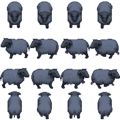
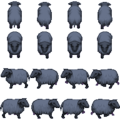
Correction animation des entitees ajout du traitement du message move

diff --git a/IANetwork/ClientXNA/ClientXNA/GameClient.cs b/IANetwork/ClientXNA/ClientXNA/GameClient.cs
@@ -243,12 +243,11 @@ namespace ClientXNA
                 {
                     if (type == "s")
                     {
-
-                        gcl.entities_.Add(id, new Sheep(new Vector2(x, y), gcl.Content.Load<Texture2D>("sheep")));
+                        gcl.entities_.Add(id, new Sheep(new Vector2(y, x), gcl.Content.Load<Texture2D>("sheep")));
                     }
                     else
                     {
-                        gcl.entities_.Add(id, new Wolf(new Vector2(x, y), gcl.Content.Load<Texture2D>("wolf")));
+                        gcl.entities_.Add(id, new Wolf(new Vector2(y, x), gcl.Content.Load<Texture2D>("wolf")));
                     }
                 }
             }
@@ -263,6 +262,19 @@ namespace ClientXNA
             string[] tokens = msg.Split(new char[] { ';' });
             if (tokens.Count() < 0)
                 return;
+            try
+            {
+                int id = int.Parse(tokens[0]);
+                int action = int.Parse(tokens[1]);
+                int x = int.Parse(tokens[2]);
+                int y = int.Parse(tokens[3]);
+                ((Entity)gcl.entities_[id]).Action = (Entity.EntityAction)action;
+                ((Entity)gcl.entities_[id]).NextPosition = new Vector2(y, x);
+            }
+            catch (Exception e)
+            {
+                Debug.WriteLine(e.Message);
+            }
         }
 
         private static void eat(GameClient gcl, string msg)
@@ -332,8 +344,8 @@ namespace ClientXNA
                 int y = int.Parse(tokens[1]);
                 int title = int.Parse(tokens[2]);
                 int odour = int.Parse(tokens[3]);
-                gcl.board_.Data[x][y].Odour = odour;
-                gcl.board_.Data[x][y].setHasGrass((title == 1));
+                gcl.board_.Data[y][x].Odour = odour;
+                gcl.board_.Data[y][x].setHasGrass((title == 1));
             }
             catch (Exception e)
             {

diff --git a/IANetwork/ClientXNA/ClientXNA/Sheep.cs b/IANetwork/ClientXNA/ClientXNA/Sheep.cs
@@ -48,14 +48,27 @@ namespace ClientXNA
             {
                 elapsedTime_ = 0;
                 x_frame_ = (x_frame_ < 3) ? (x_frame_ + 1) : (0);
+                if (Action == EntityAction.MOVE_UP)
+                    if (Position.Y > NextPosition.Y)
+                        position_.Y -= 0.1f;
+                if (Action == EntityAction.MOVE_DOWN)
+                    if (Position.Y < NextPosition.Y)
+                        position_.Y += 0.1f;
+                if (Action == EntityAction.MOVE_LEFT)
+                    if (Position.X > NextPosition.X)
+                        position_.X -= 0.1f;
+                if (Action == EntityAction.MOVE_RIGHT)
+                    if (Position.X < NextPosition.X)
+                        position_.X += 0.1f;
             }
             elapsedTime_ += gameTime.ElapsedGameTime.Milliseconds;
+           
         }
 
         public override void Draw(SpriteBatch graphics, Vector2 camera)
         {
-            graphics.Draw(image_, new Rectangle((((int)Position.X * 32)) + (int)camera.X
-                                                , (((int)Position.Y * 32)) + (int) camera.Y,
+            graphics.Draw(image_, new Rectangle(((int)(Position.X * 32)) + (int)camera.X
+                                                , ((int)(Position.Y * 32)) + (int) camera.Y,
                                                 width_, height_),
                           frames_[y_frame_][x_frame_], Color.White);
         }

diff --git a/IANetwork/ClientXNA/ClientXNA/Entity.cs b/IANetwork/ClientXNA/ClientXNA/Entity.cs
@@ -10,10 +10,10 @@ namespace ClientXNA
     public abstract class Entity
     {
         public enum EntityAction {
-			MOVE_DOWN,
-			MOVE_LEFT,
-			MOVE_RIGHT,
             MOVE_UP,
+            MOVE_DOWN,
+            MOVE_LEFT,
+            MOVE_RIGHT,
 			EAT,
 			REPRODUCE,
             NONE
@@ -21,12 +21,14 @@ namespace ClientXNA
 
         #region Attributes
         protected Vector2 position_;
+        protected Vector2 nexPosition_;
         protected EntityAction action_;
         #endregion
 
         public Entity(Vector2 position)
         {
             position_ = position;
+            nexPosition_ = position;
             action_ = EntityAction.NONE;
         }
 
@@ -40,6 +42,18 @@ namespace ClientXNA
             set
             {
                 position_ = value;
+            }
+        }
+
+        public Vector2 NextPosition
+        {
+            get
+            {
+                return (nexPosition_);
+            }
+            set
+            {
+                nexPosition_ = value;
             }
         }
 

diff --git a/IANetwork/Serveur/NetworkEnvironnement.cpp b/IANetwork/Serveur/NetworkEnvironnement.cpp
@@ -55,10 +55,22 @@ namespace Wrapper
 
 	void NetworkEnvironnement::onSpawnWolf(Logique::Entity const & entity)
 	{
+		Networking::Server::Package_ptr package = Networking::Server::Package_ptr(new Networking::Package());
+
+		std::stringstream sstream;
+		sstream << SPAWN << ";w;" << (uint32_t)&entity << ";" << entity.getLocation().x << ";" << entity.getLocation().y;
+		package->init(sstream.str());
+		server_->add_sending_package(package);
 	}
 
 	void NetworkEnvironnement::onEntityMove(Logique::Entity const & entity)
 	{
+		Networking::Server::Package_ptr package = Networking::Server::Package_ptr(new Networking::Package());
+
+		std::stringstream sstream;
+		sstream << MOVE << ";" << (uint32_t)&entity << ";" << entity.getLastAction() << ";" << entity.getLocation().x << ";" << entity.getLocation().y;
+		package->init(sstream.str());
+		server_->add_sending_package(package);
 	}
 
 	void NetworkEnvironnement::onEntityEat(Logique::Entity const & entity)

diff --git a/IANetwork/ClientXNA/ClientXNA/Wolf.cs b/IANetwork/ClientXNA/ClientXNA/Wolf.cs
@@ -30,6 +30,18 @@ namespace ClientXNA
                 frames_[y] = new Rectangle[4];
                 for (int x = 0; x < 4; x++)
                     frames_[y][x] = new Rectangle(x* width, y* height, width, height);
+                if (Action == EntityAction.MOVE_UP)
+                    if (Position.Y > NextPosition.Y)
+                        position_.Y -= 0.1f;
+                if (Action == EntityAction.MOVE_DOWN)
+                    if (Position.Y < NextPosition.Y)
+                        position_.Y += 0.1f;
+                if (Action == EntityAction.MOVE_LEFT)
+                    if (Position.X > NextPosition.X)
+                        position_.X -= 0.1f;
+                if (Action == EntityAction.MOVE_RIGHT)
+                    if (Position.X < NextPosition.X)
+                        position_.X += 0.1f;
             }
             x_frame_ = 0;
             y_frame_ = 0;

diff --git a/Logique/Entity.hpp b/Logique/Entity.hpp
@@ -64,8 +64,6 @@ namespace Logique  {
 		virtual void reproduce(Board& board) = 0;
 		void generateNewAction();
 		EntityAction getLastAction() const;
-		
-		// TODO : Une methode pour recupere la derniere action serait pratique pour les messages.
 
 	protected:
 		inline bool addAction(const Action& value) {
